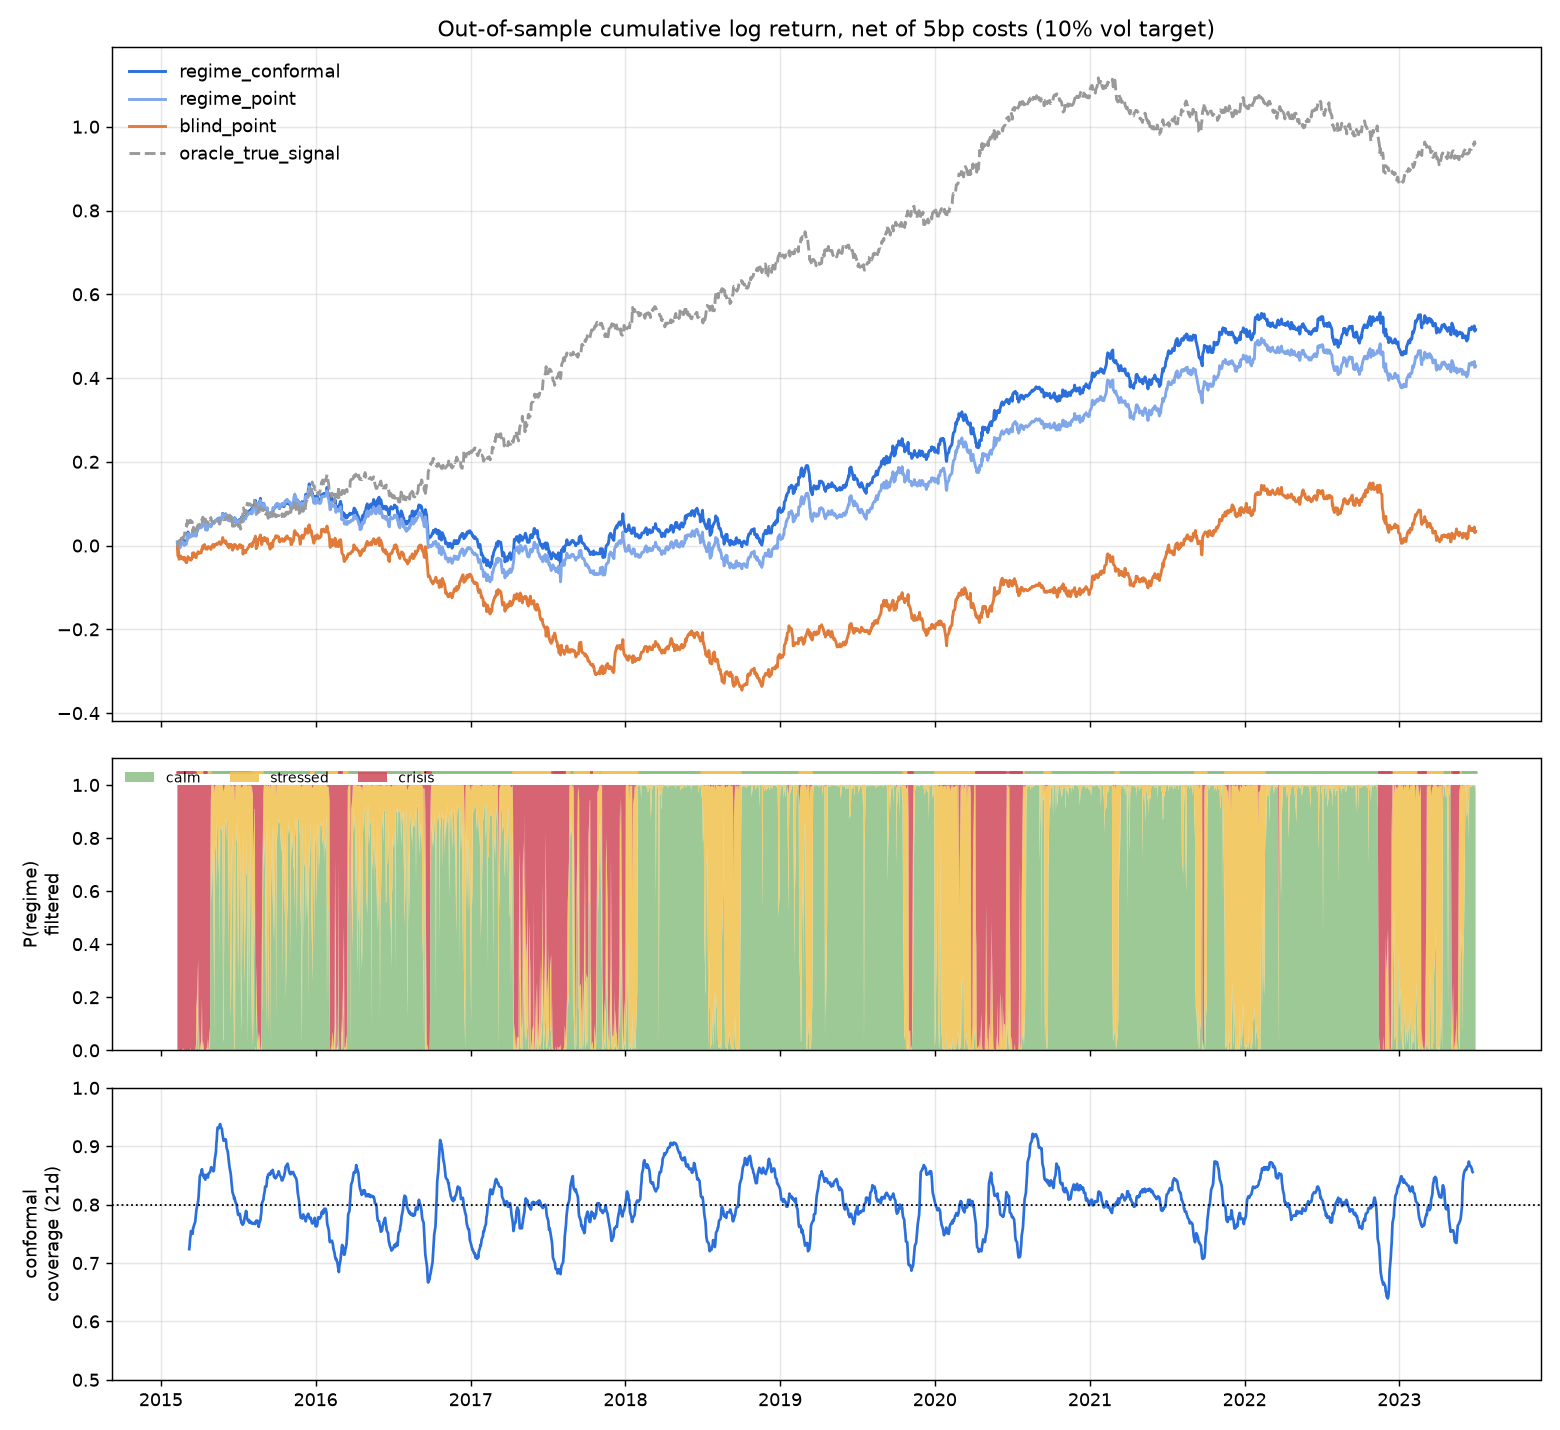
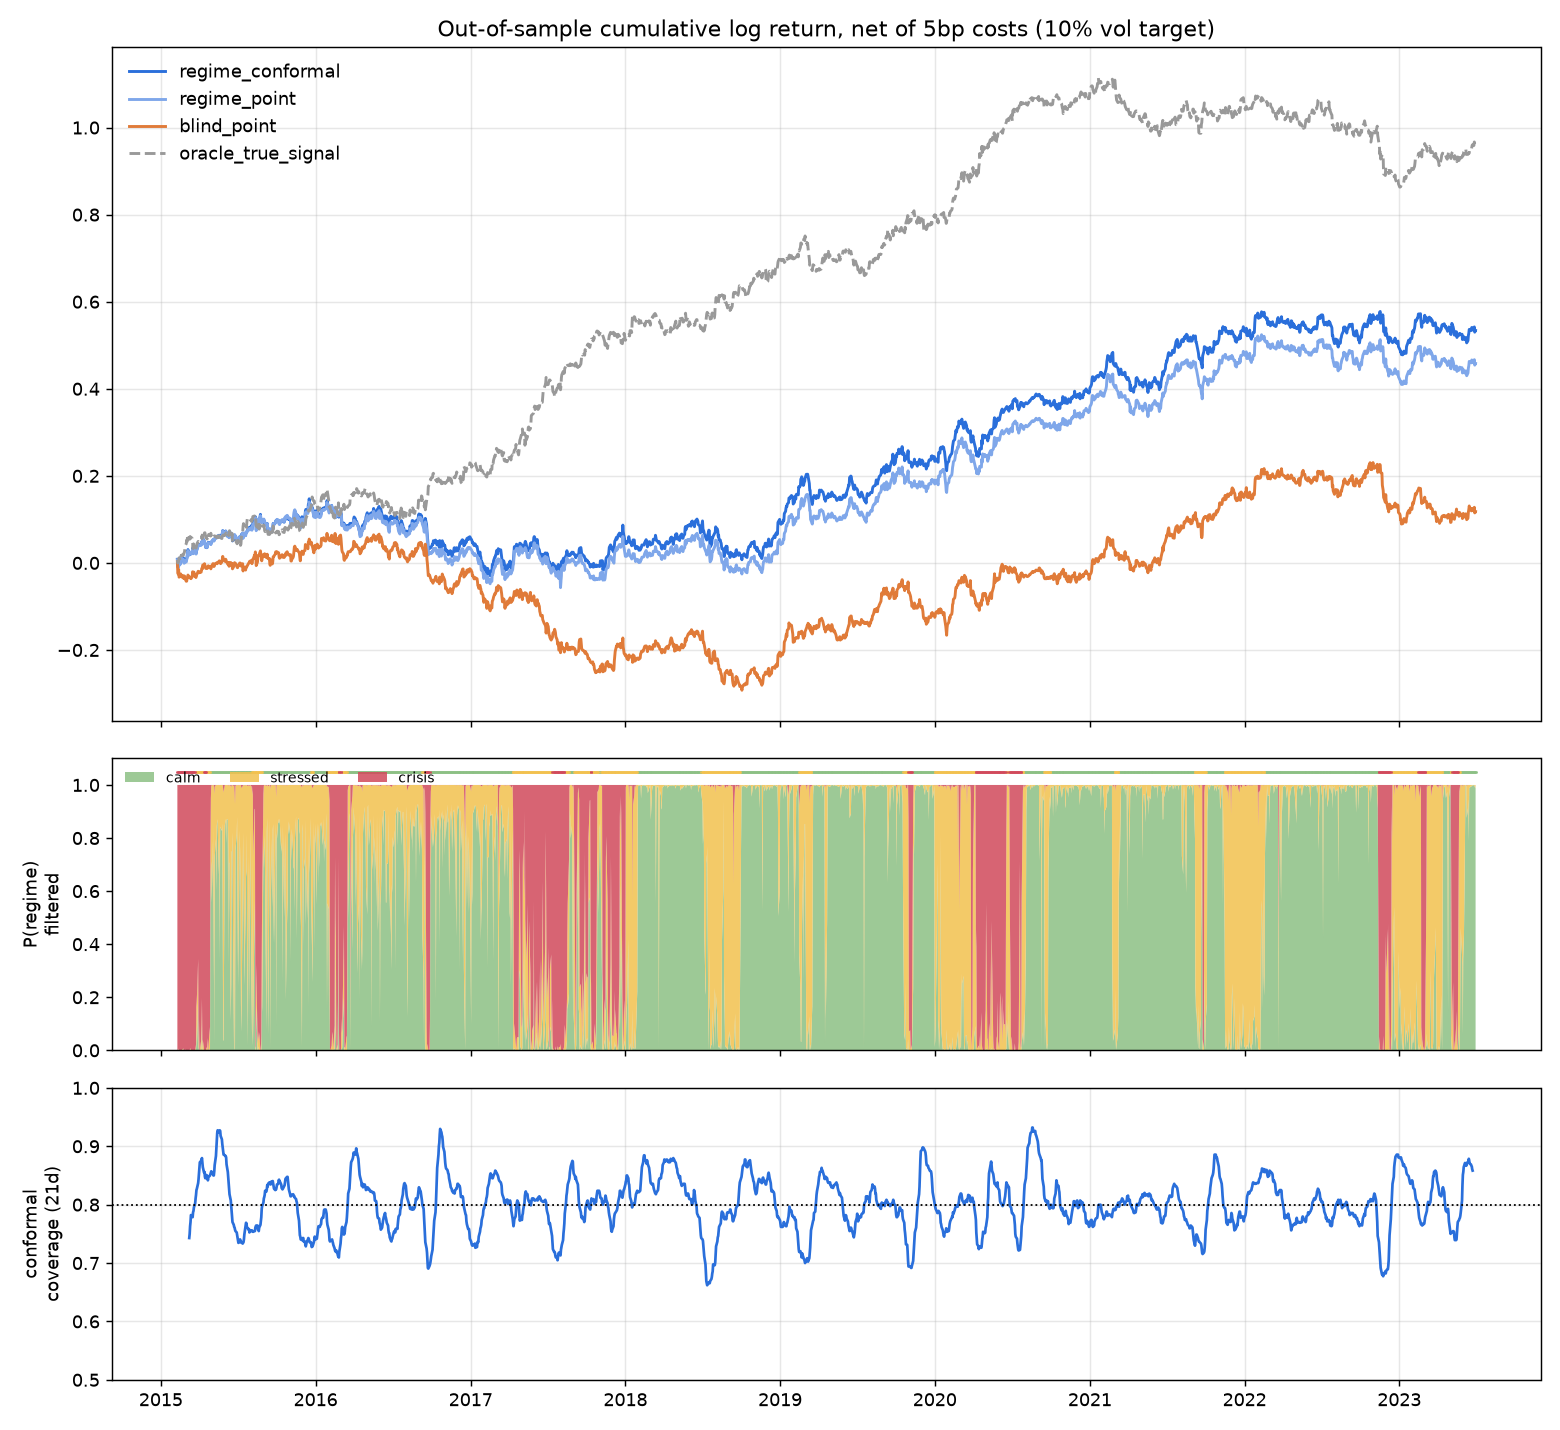
Refresh backtest results and dashboard screenshot; polish UI
- Upgraded backtest: net Sharpe 0.59, max DD -18.9%, deflated Sharpe
  0.81, adaptive coverage error 1.8pp vs 2.2pp static
- Fix mobile horizontal overflow (minmax grid columns)
- Label vol-target leverage in the target book
- Cap model-sleeve picks at 20% each

Claude-Session: https://claude.ai/code/session_01TLNhW2gGUSti2GCzBmKp4e

diff --git a/regimeml/web/index.html b/regimeml/web/index.html
@@ -55,8 +55,9 @@ h2 { font-size: 15px; margin: 0 0 10px; }
 .kpi .label { color: var(--ink-2); font-size: 12px; }
 .kpi .value { font-size: 24px; font-weight: 600; margin-top: 2px; }
 .kpi .sub { color: var(--muted); font-size: 12px; }
-.two { grid-template-columns: 1.4fr 1fr; margin-bottom: 14px; }
-@media (max-width: 900px) { .two { grid-template-columns: 1fr; } }
+.two { grid-template-columns: minmax(0, 1.4fr) minmax(0, 1fr); margin-bottom: 14px; }
+@media (max-width: 900px) { .two { grid-template-columns: minmax(0, 1fr); } }
+.xscroll { overflow-x: auto; }
 .chart { position: relative; height: 240px; }
 .chart.sm { height: 180px; }
 .legend { display: flex; gap: 14px; flex-wrap: wrap; font-size: 12px; color: var(--ink-2); margin-top: 8px; }
@@ -189,7 +190,7 @@ button.ghost { background: transparent; color: var(--ink); border: 1px solid var
       <div class="note" id="why"></div>
       <div class="alloc" id="allocBar" role="img" aria-label="Target allocation"></div>
       <div class="grid two" style="margin:0">
-        <div>
+        <div class="xscroll">
           <table>
             <thead><tr><th>Sleeve</th><th>Example</th><th class="num">Long-term</th><th class="num">Today</th><th>Hold for</th></tr></thead>
             <tbody id="sleeves"></tbody>
@@ -328,7 +329,8 @@ function renderBook(s) {
   const maxW = Math.max(0.01, ...rows.map(r => Math.abs(r.weight)));
   const lo = Math.min(...rows.map(r => r.lo)), hi = Math.max(...rows.map(r => r.hi));
   const x = (v) => ((v - lo) / (hi - lo || 1)) * 100;
-  $("bookNote").textContent = s.provisional ? "· provisional (intraday prices)" : "· set at last close";
+  $("bookNote").textContent = (s.provisional ? "· provisional (intraday prices)" : "· set at last close")
+    + (s.leverage ? ` · weights include ${s.leverage.toFixed(2)}× vol-target leverage` : "");
   $("book").replaceChildren(...rows.map(r => {
     const w = r.weight, width = Math.abs(w) / maxW * 50;
     const bar = el("div", { className: "bar", title: `weight ${spct(w)}` },

diff --git a/regimeml/advisor.py b/regimeml/advisor.py
@@ -237,10 +237,21 @@ def advise(p: Profile, regime_probs: list[float] | None = None, model_picks: lis
                           "tax or legal advice. Past and simulated performance do not guarantee future results."}
 
 
-def picks_from_state(state: dict, n: int = 10) -> list[dict]:
+def picks_from_state(state: dict, n: int = 10, max_weight: float = 0.20) -> list[dict]:
     """Long-only model picks: highest-scoring names from the engine's latest book."""
     rows = [r for r in state.get("portfolio", []) if r.get("score") is not None]
     rows.sort(key=lambda r: -r["score"])
     top = [r for r in rows[:n] if r["score"] > 0]
-    tot = sum(r["score"] for r in top) or 1.0
-    return [{"asset": r["asset"], "weight": r["score"] / tot, "price": r.get("price")} for r in top]
+    if not top:
+        return []
+    w = np.array([r["score"] for r in top], float)
+    w /= w.sum()
+    cap = max(max_weight, 1.0 / len(top))
+    for _ in range(50):  # cap single names, redistribute the excess pro rata
+        over = w > cap + 1e-12
+        if not over.any():
+            break
+        excess = (w[over] - cap).sum()
+        w[over] = cap
+        w[~over] += excess * w[~over] / w[~over].sum()
+    return [{"asset": r["asset"], "weight": float(x), "price": r.get("price")} for r, x in zip(top, w)]

diff --git a/tests/test_advisor.py b/tests/test_advisor.py
@@ -89,3 +89,11 @@ def test_email_render_and_send(monkeypatch):
     monkeypatch.setenv("SMTP_USER", "bot@example.com")
     send("s@x.io", subject, text, html)
     assert sent == {"host": ("smtp.example.com", 587), "tls": True, "login": "bot@example.com", "to": "s@x.io"}
+
+
+def test_model_picks_are_capped():
+    from regimeml.advisor import picks_from_state
+    rows = [{"asset": f"A{i}", "score": s, "price": 1.0} for i, s in enumerate([9, 1, 1, 1, 1, 0.5, -1])]
+    picks = picks_from_state({"portfolio": rows})
+    w = [p["weight"] for p in picks]
+    assert len(picks) == 6 and abs(sum(w) - 1) < 1e-9 and max(w) <= 0.2 + 1e-9

diff --git a/README.md b/README.md
@@ -28,7 +28,15 @@
 
 The test covers about 8.5 years of walk-forward data across 40 assets, net of costs, at a 10% volatility target:
 
-<!-- RESULTS -->
+| Variant | Net Sharpe | IC (t-stat) | Max DD | Deflated Sharpe | 80% interval coverage | Avg. coverage error, 63-day windows |
+|---|---|---|---|---|---|---|
+| **regime + conformal sizing** (production) | **0.59** | 0.025 (7.5) | **-18.9%** | **0.81** | 80.0% | **1.8pp** (static: 2.2pp) |
+| regime, point forecast | 0.51 | 0.025 (7.5) | -19.6% | 0.74 | 80.0% | 1.8pp |
+| regime-blind | 0.13 | 0.019 (5.4) | -36.0% | 0.32 | 80.0% | 2.0pp |
+| *oracle: true planted signal (ceiling)* | *1.08* | *0.035 (10.5)* | *-25.1%* | — | — | — |
+
+- The HMM identifies the hidden regime **84%** of the time using only past data.
+- Adaptive conformal tracking keeps coverage closer to target across the test period than static intervals (1.8pp vs 2.2pp average error).
 
 The simulator hides a signal that **reverses by regime**. The regime-blind model sees the two effects largely cancel out, which is why its result is poor.
 
@@ -38,7 +46,7 @@ The simulator hides a signal that **reverses by regime**. The regime-blind model
 
 ```bash
 pip install -e ".[dev,yahoo]"
-pytest -q                                          # 34 tests
+pytest -q                                          # 35 tests
 
 # 1) Live web dashboard: simulated market, no keys needed
 uvicorn regimeml.server:app --port 8000            # open http://localhost:8000
